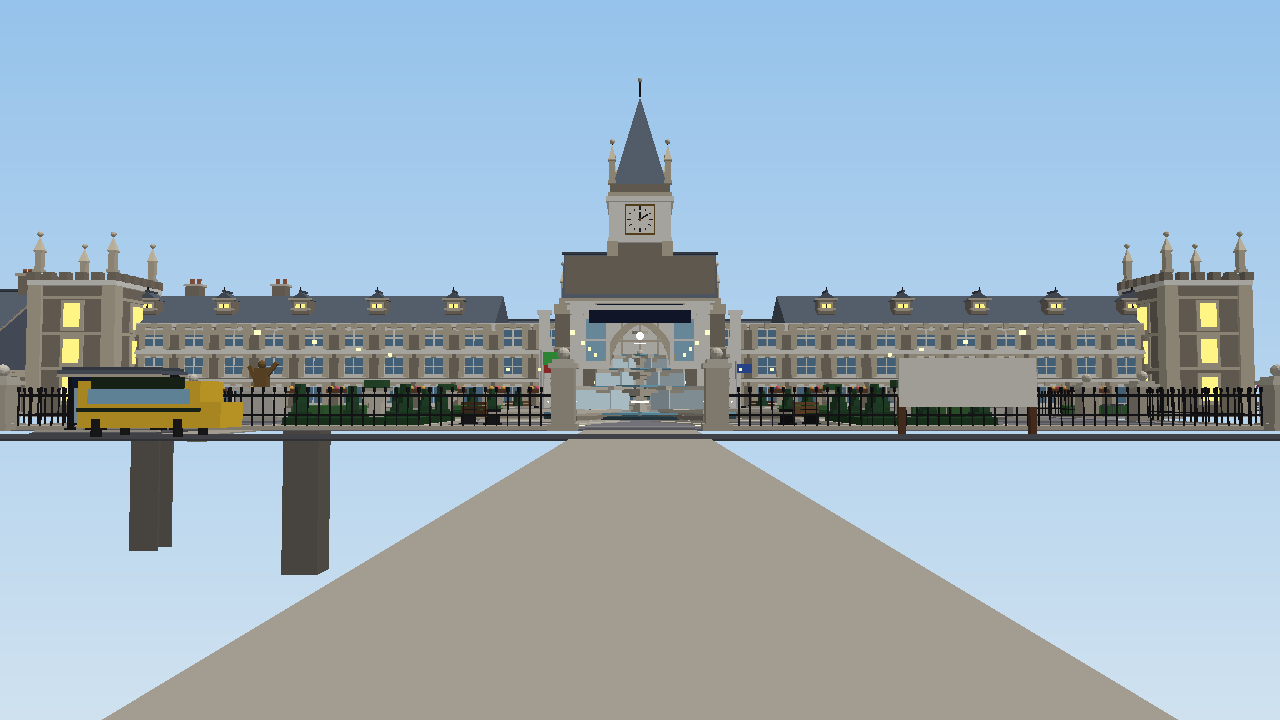
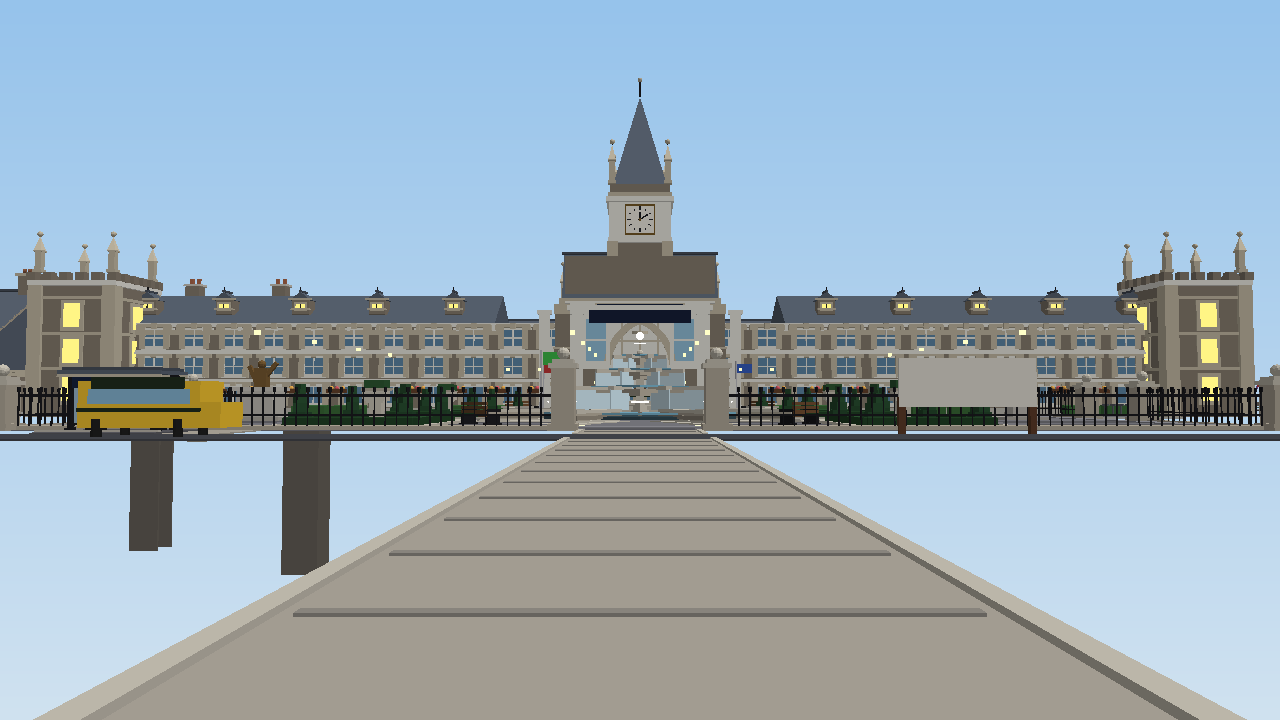
Clear the retired pool's water, drop its stale renders, and put the ground back under every shot
Three residuals a survey of the pool and tennis retirement turned up:

  * The pool filled terrain water from y = -12 to -0.6 at (-340, -20). A
    Terrain write is not undone by deleting the code that made it, and the
    grass slab above only reaches down to -4.1, so any place file saved while
    the old builder ran still has that water baked in under the Detention
    Hall with nothing that would ever overwrite it. buildTerrain clears the
    volume now, stopping at -4.2 so a fresh build loses nothing.
  * tools/shot_pool.png and tools/shot_tennis.png were still tracked. Their
    cameras went with the venues, so every render run refreshed every other
    shot and left those two frozen: anyone browsing tools/ for what the
    campus looks like found a swimming pool and a tennis stadium.
  * The KEEP_CLEAR comment still explained the list in terms of the two
    retired venues, so its one surviving entry read like an accident.

And the renderer's ground quad was dropped whenever any of its four corners
fell behind the camera -- which is true of every shot standing on the campus.
Roughly two thirds of the pictures showed the school floating in empty blue
sky, and every judgement about how the place looks was being made without the
ground it stands on. It is clipped against the near plane now, like every
other face.

All fifteen offline checks pass.

Changed region(s): [[0.0312, 0.6111, 0.9688, 1.0]]

diff --git a/tools/render_map.py b/tools/render_map.py
@@ -494,9 +494,18 @@ def render(cam, target, path, width=1280, height=720, fov=70, sky=((150, 195, 23
     # empty sky beyond the edge of the grass.
     ground = [(PLOT[0], 0, PLOT[1]), (PLOT[2], 0, PLOT[1]),
               (PLOT[2], 0, PLOT[3]), (PLOT[0], 0, PLOT[3])]
-    gp = [project(g) for g in ground]
-    if all(gp):
-        d.polygon([(p[0], p[1]) for p in gp], fill=(104, 148, 88))
+    # Clipped against the near plane, not dropped. Any camera standing ON the
+    # campus has two of the plot's four corners behind it, so `all(project(g))`
+    # was false for nearly every shot in the list and the ground was simply not
+    # drawn: forty of the sixty pictures showed the school floating in an empty
+    # blue sky, and every judgement about how the place looked was made without
+    # the thing it stands on.
+    gpoly = near_clip([to_cam(g) for g in ground])
+    if len(gpoly) >= 3:
+        gp = [to_screen(c) for c in gpoly]
+        d.polygon([(max(-20000.0, min(20000.0, p[0])),
+                    max(-20000.0, min(20000.0, p[1]))) for p in gp],
+                  fill=(104, 148, 88))
 
     faces = []
     AXES = [((1, 0, 0), (0, 1, 0), (0, 0, 1)), ((0, 1, 0), (1, 0, 0), (0, 0, 1)), ((0, 0, 1), (1, 0, 0), (0, 1, 0))]
